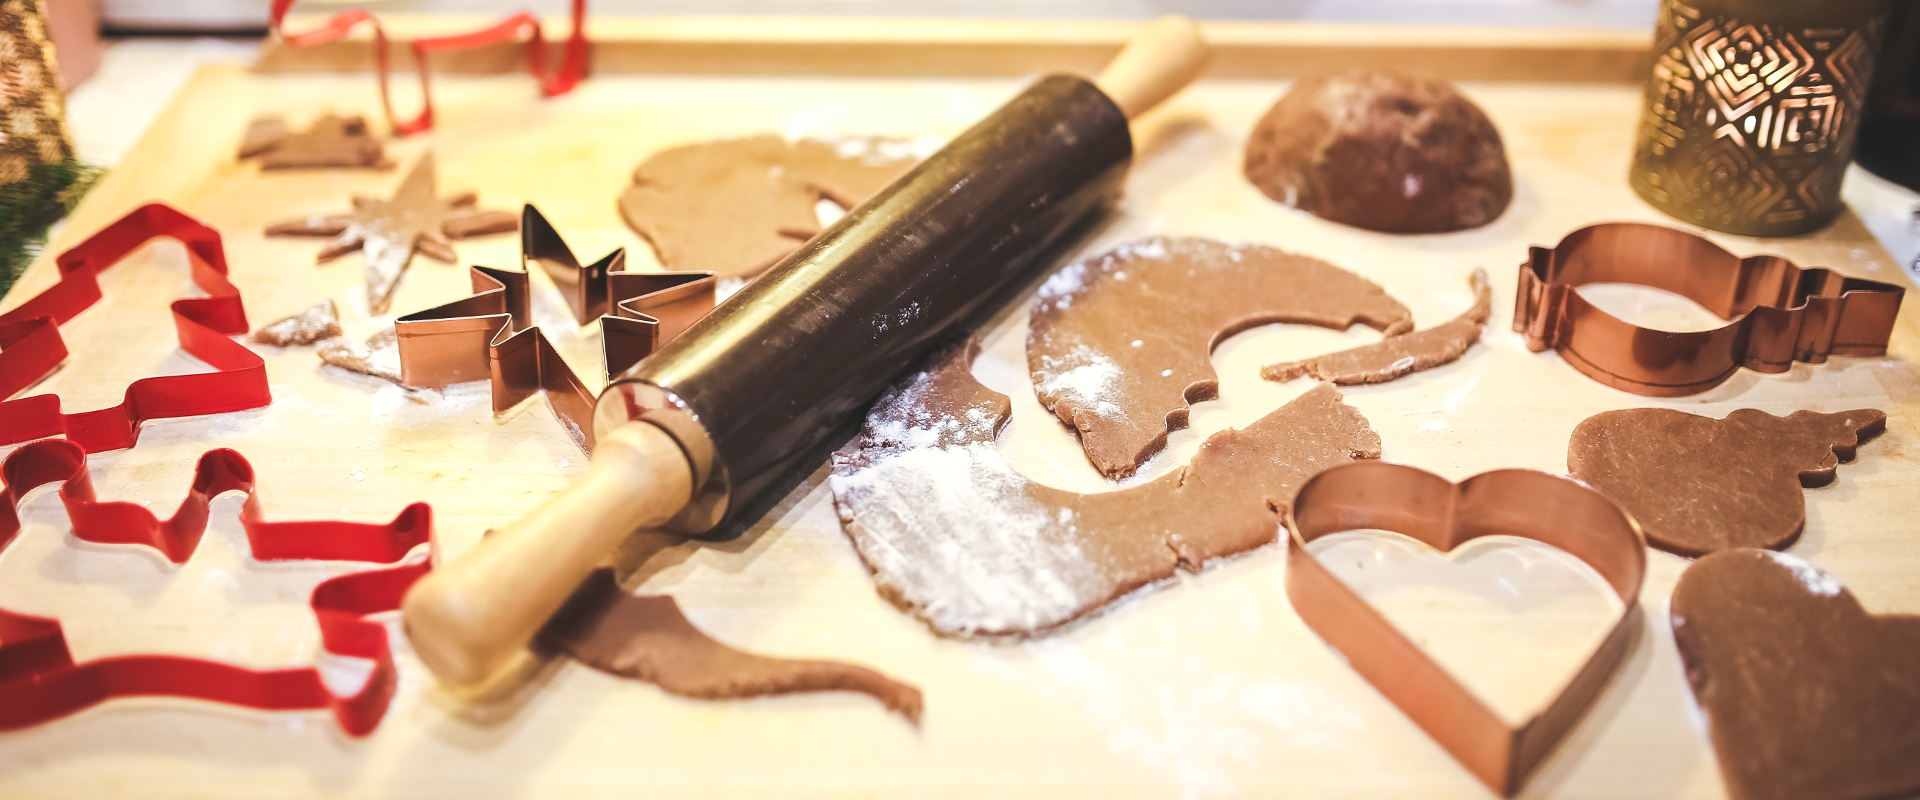
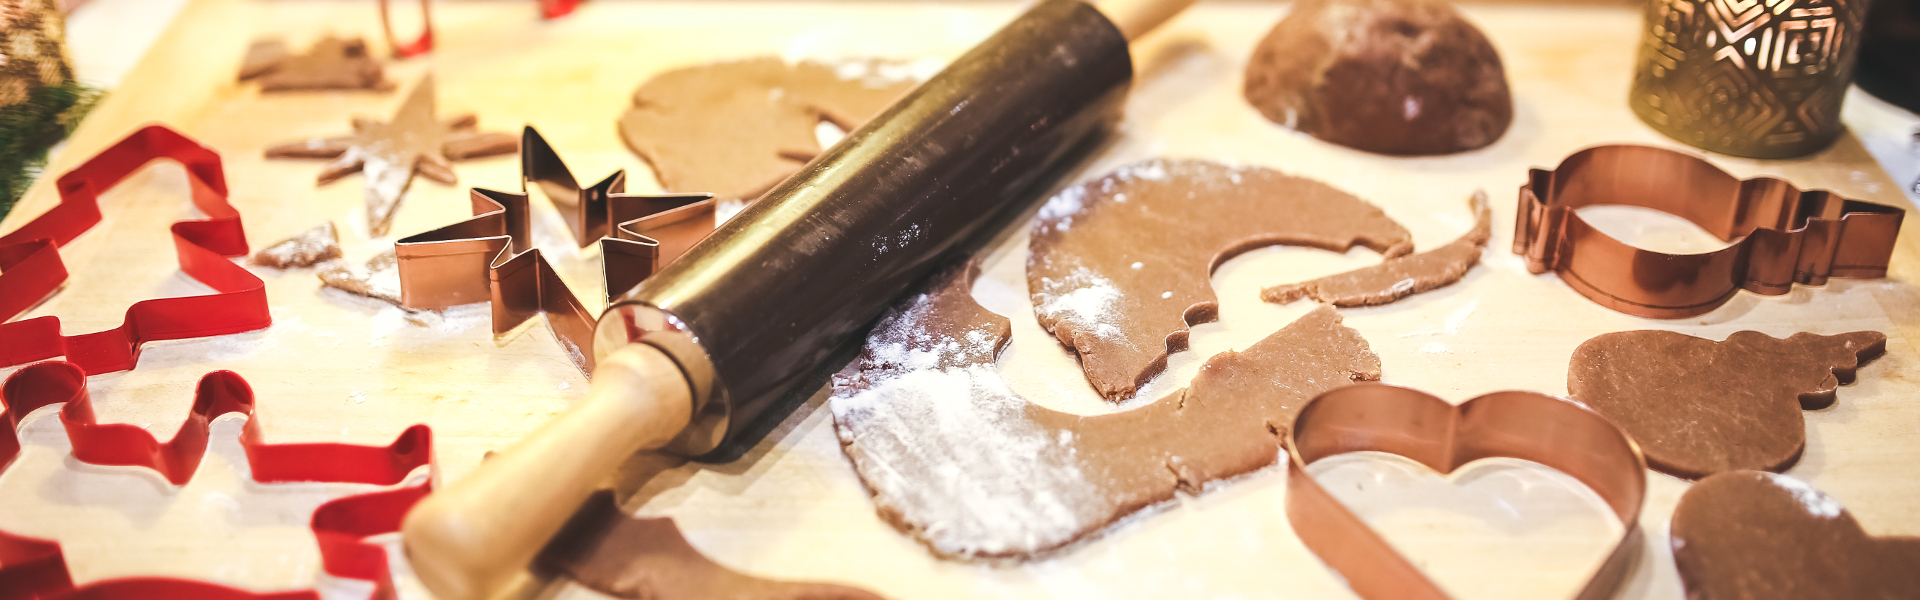
Modifying main page's styles

diff --git a/app/assets/stylesheets/catalog.scss b/app/assets/stylesheets/catalog.scss
@@ -185,7 +185,7 @@ body {
 	padding-right: 0 !important;
 }
 
-/*.banner {
+.banner {
 	box-shadow: 0 0 20px #000;
 	position: relative;
 	overflow: hidden;
@@ -193,7 +193,7 @@ body {
 	img {
 		position: relative;
 		min-width: 960px;
-		min-height: 500px;
+		min-height: 300px;
 	}
 }
 
@@ -208,17 +208,37 @@ body {
 
 	h1 {
 		position: relative;
-		top: 40%;
+		top: 33%;
 		left: 5%;
 		width: 94%;
 		font-size: 50px;
 		text-transform: uppercase;
 
 		@media (max-width: 1170px) {
-			font-size: 40px;
+			font-size: 36px;
 		}
 	}
-}*/
+
+	p {
+		position: relative;
+		top: 38%;
+		left: 5%;
+		width: 94%;
+		font-size: 18px;
+
+		@media (min-width: 996px) and (max-width: 1300px) {
+			font-size: 14px;
+		}
+
+		@media (min-width: 768px) and (max-width: 995px) {
+			font-size: 12px;
+		}
+
+		@media (max-width: 767px) {
+			display: none;
+		}
+	}
+}
 
 #recipe_navigator {
 	float: left;
@@ -524,6 +544,10 @@ body {
 
 	.carousel-indicators {
 		bottom: 5px;
+
+		.active {
+			background-color: #fff;
+		}
 	}
 
 	.carousel-indicators li {
@@ -539,6 +563,12 @@ body {
 		list-style: none;
 		background: url('list.png') no-repeat;
 		margin-top: 15px;
-		padding: 0 40px 10px;
+		padding: 0 40px 15px;
+	}
+
+	&#plan {
+		li {
+			background: url('list-plan.png') no-repeat;
+		}
 	}
 }
